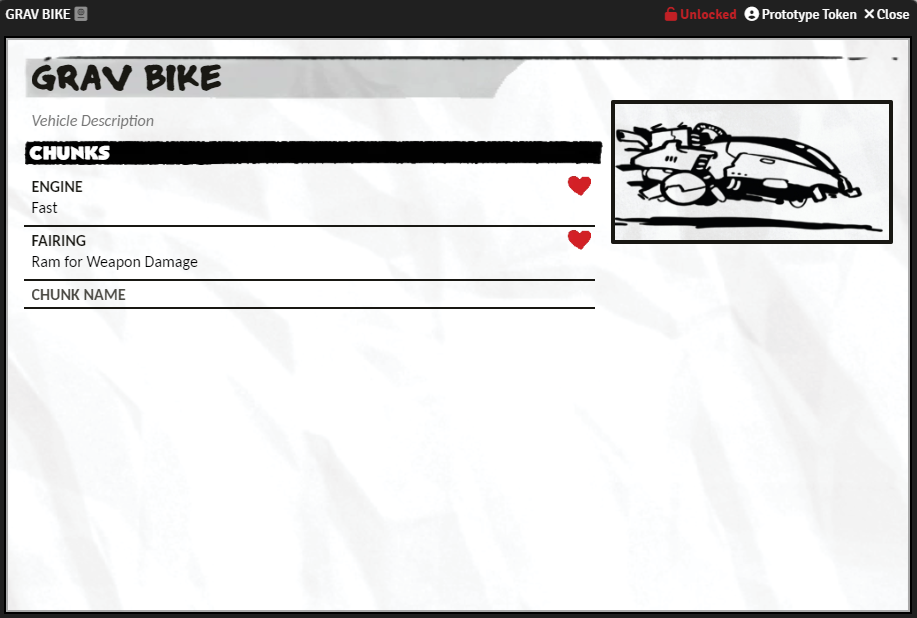
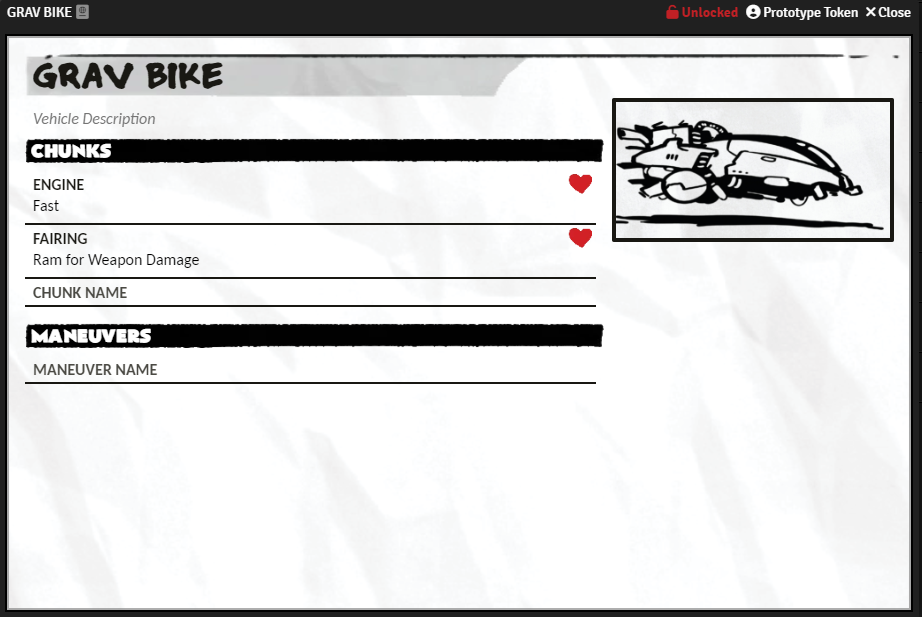
Added vehicles maneuvers, updated guide, merged sheet edit array code

Changed region(s): [[0.0, 0.0, 1.0, 1.0], [0.3053, 0.154, 0.3664, 0.1848]]

diff --git a/src/module/actor/actor-sheet.js b/src/module/actor/actor-sheet.js
@@ -201,73 +201,49 @@ export default class ICRPGActorSheet extends ActorSheet {
     // Monster Actions edit
     html.find('.monster-action.edit input, .monster-action.edit textarea').on('change', (ev) => {
       const ct = $(ev.currentTarget);
-      const actionIndex = ct.closest('[data-action-index]').data('actionIndex');
-      const target = ct.closest('[data-target]').data('target');
-      const value = ct.val();
-
-      let monsterActions = this.actor.system.monsterActions;
-      if (actionIndex < 0) {
-        // Create
-        monsterActions.push({
-          name: target === 'name' ? value : '',
-          description: '',
-        });
-      } else {
-        // Update
-        const action = monsterActions[actionIndex];
-        action.name = target === 'name' ? value : action.name;
-        action.description = target === 'description' ? value : action.description;
-
-        // Delete
-        if (!action.name.length) monsterActions.splice(actionIndex, 1);
-      }
-      this.actor.update({ 'system.monsterActions': monsterActions });
+      const index = ct.closest('[data-action-index]').data('actionIndex');
+      const update = this._onArrayEdit(this.actor.system.monsterActions, ev, index);
+      this.actor.update({ 'system.monsterActions': update });
     });
   }
 
   _activateVehicleListeners(html) {
-    // TODO: merge code for editing monster actions and vehicle chunks
     // Vehicle Chunk edit
     html.find('.vehicle-chunk.edit input, .vehicle-chunk.edit textarea').on('change', (ev) => {
       const ct = $(ev.currentTarget);
-      const chunkIndex = ct.closest('[data-chunk-index]').data('chunkIndex');
-      const target = ct.closest('[data-target]').data('target');
-      const value = ct.val();
-
-      let chunks = this.actor.system.chunks;
-      if (chunkIndex < 0) {
-        // Create
-        chunks.push({
-          name: target === 'name' ? value : '',
-          description: '',
-          health: {
-            hearts: 1,
-            max: 10,
-            damage: 0,
-            value: 10,
-          },
-        });
-      } else {
-        // Update
-        const chunk = chunks[chunkIndex];
-        chunk.name = target === 'name' ? value : chunk.name;
-        chunk.description = target === 'description' ? value : chunk.description;
-
-        // Delete
-        if (!chunk.name.length) chunks.splice(chunkIndex, 1);
-      }
-      this.actor.update({ 'system.chunks': chunks });
+      const index = ct.closest('[data-chunk-index]').data('chunkIndex');
+      const defaultEntry = { health: { hearts: 1, max: 10, damage: 0, value: 10 } };
+      const update = this._onArrayEdit(this.actor.system.chunks, ev, index, defaultEntry);
+      this.actor.update({ 'system.chunks': update });
     });
 
-    // Chunk Hearts selector
-    // Toggles between 1 heart and half
-    html.find('.icrpg-selectable-heart').click((ev) => {
-      const chunkIndex = $(ev.currentTarget).closest('[data-chunk-index]').data('chunkIndex');
-      const chunks = this.actor.system.chunks;
-      const currentHearts = chunks[chunkIndex].health.hearts;
-      chunks[chunkIndex].health.hearts = currentHearts === 1 ? 0.5 : 1;
-      this.actor.update({ 'system.chunks': chunks });
+    // Vehicle Maneuvers edit
+    html.find('.vehicle-maneuver.edit input, .vehicle-maneuver textarea').on('change', (ev) => {
+      const ct = $(ev.currentTarget);
+      const index = ct.closest('[data-maneuver-index]').data('maneuverIndex');
+      const update = this._onArrayEdit(this.actor.system.maneuvers, ev, index);
+      this.actor.update({ 'system.maneuvers': update });
     });
+  }
+
+  _onArrayEdit(array, ev, index, defaultNewEntryVal = {}) {
+    const ct = $(ev.currentTarget);
+    const target = ct.closest('[data-target]').data('target');
+    const value = ct.val();
+
+    if (index < 0) {
+      // Create
+      array.push(mergeObject(defaultNewEntryVal, { name: target === 'name' ? value : '', description: '' }));
+    } else {
+      // Update
+      const datum = array[index];
+      datum.name = target === 'name' ? value : datum.name;
+      datum.description = target === 'description' ? value : datum.description;
+
+      // Delete
+      if (!datum.name.length) array.splice(index, 1);
+    }
+    return array;
   }
 
   // --------------------------------------------------------------------------

diff --git a/src/templates/actor/tabs/vehicle-edit.html b/src/templates/actor/tabs/vehicle-edit.html
@@ -11,6 +11,14 @@
       {{/each}}
       {{> chunkEdit index=-1 noDescription=true}}
     </div>
+
+    <div class="icrpg-vehicle-chunks-container" style="margin-top: 16px;">
+      <h2>{{localize "ICRPG.vehicleSheet.maneuvers"}}</h2>
+      {{#each system.maneuvers as |maneuver index|}}
+        {{> maneuverEdit index=index maneuver=maneuver}}
+      {{/each}}
+      {{> maneuverEdit index=-1 noDescription=true}}
+    </div>
   </div>
 
   <div class="col-1 vehicle-image-container">
@@ -39,6 +47,22 @@
       </div>
       <textarea placeholder="{{localize "ICRPG.vehicleSheet.chunkDescription"}}" spellcheck="false" autosize
                 data-target="description">{{chunk.description}}</textarea>
+    {{/if}}
+  </div>
+{{/inline}}
+
+{{#* inline "maneuverEdit"}}
+  <div class="vehicle-maneuver edit" data-maneuver-index="{{index}}">
+    {{#if noDescription}}
+      <input type="text" value="{{maneuver.name}}" data-target="name"
+             placeholder="{{localize "ICRPG.vehicleSheet.maneuverName"}}">
+    {{else}}
+      <div class="flexrow">
+        <input type="text" value="{{maneuver.name}}" data-target="name"
+               placeholder="{{localize "ICRPG.vehicleSheet.maneuverName"}}">
+      </div>
+      <textarea placeholder="{{localize "ICRPG.vehicleSheet.maneuverDescription"}}" spellcheck="false" autosize
+                data-target="description">{{maneuver.description}}</textarea>
     {{/if}}
   </div>
 {{/inline}}

diff --git a/src/templates/actor/tabs/vehicle-view.html b/src/templates/actor/tabs/vehicle-view.html
@@ -9,6 +9,15 @@
         {{> chunkView index=index chunk=chunk}}
       {{/each}}
     </div>
+
+    {{#if system.maneuvers.length}}
+      <div class="icrpg-vehicle-chunks-container" style="margin-top: 16px">
+        <h2>{{localize "ICRPG.vehicleSheet.maneuvers"}}</h2>
+        {{#each system.maneuvers as |maneuver index|}}
+          {{> maneuverView index=index maneuver=maneuver}}
+        {{/each}}
+      </div>
+    {{/if}}
   </div>
 
   <div class="col-1 vehicle-image-container">
@@ -29,6 +38,14 @@
           {{/if}}
         </div>
       </div>
+    </div>
+  </div>
+{{/inline}}
+
+{{#* inline "maneuverView"}}
+  <div class="vehicle-chunk" data-maneuver-index="{{index}}">
+    <div class="flexrow">
+      <div><b style="text-transform: uppercase">{{maneuver.name}}: </b>{{maneuver.description}}</div>
     </div>
   </div>
 {{/inline}}

diff --git a/src/module/utils/handlebars.js b/src/module/utils/handlebars.js
@@ -40,7 +40,6 @@ function _times(n, block) {
 function _healthImageChooser(actor, heartIndex) {
   const heartMaxHp = (heartIndex + 1) * 10;
   const actorMaxHp = actor.system.health.max;
-  console.log(actorMaxHp, heartIndex);
   if (actor.type === 'character') {
     if (actorMaxHp >= heartMaxHp) return 'systems/icrpgme/assets/ui/char-heart-red.webp';
     else if (actorMaxHp >= heartMaxHp - 5) return 'systems/icrpgme/assets/ui/char-heart-half-red.webp';

diff --git a/src/module/data-models/actor-data-model.js b/src/module/data-models/actor-data-model.js
@@ -139,6 +139,12 @@ export class ICRPGVehicleDataModel extends foundry.abstract.DataModel {
           description: f.string(),
         }),
       ),
+      maneuvers: f.array(
+        f.schema({
+          name: f.string(),
+          description: f.string(),
+        }),
+      ),
       health: f.schema({
         hearts: f.number({ min: 0, integer: false }),
         max: f.number({ min: 0 }),

diff --git a/src/styles/sheets.scss b/src/styles/sheets.scss
@@ -771,10 +771,12 @@ form.icrpg-monster-sheet {
     font-family: $ff-carlito;
     font-size: 16px;
 
+    .vehicle-maneuver,
     .vehicle-chunk {
       padding-left: 8px;
       margin-right: 8px;
     }
+    .vehicle-maneuver.edit,
     .vehicle-chunk.edit {
       border-bottom: 2px solid;
     }
